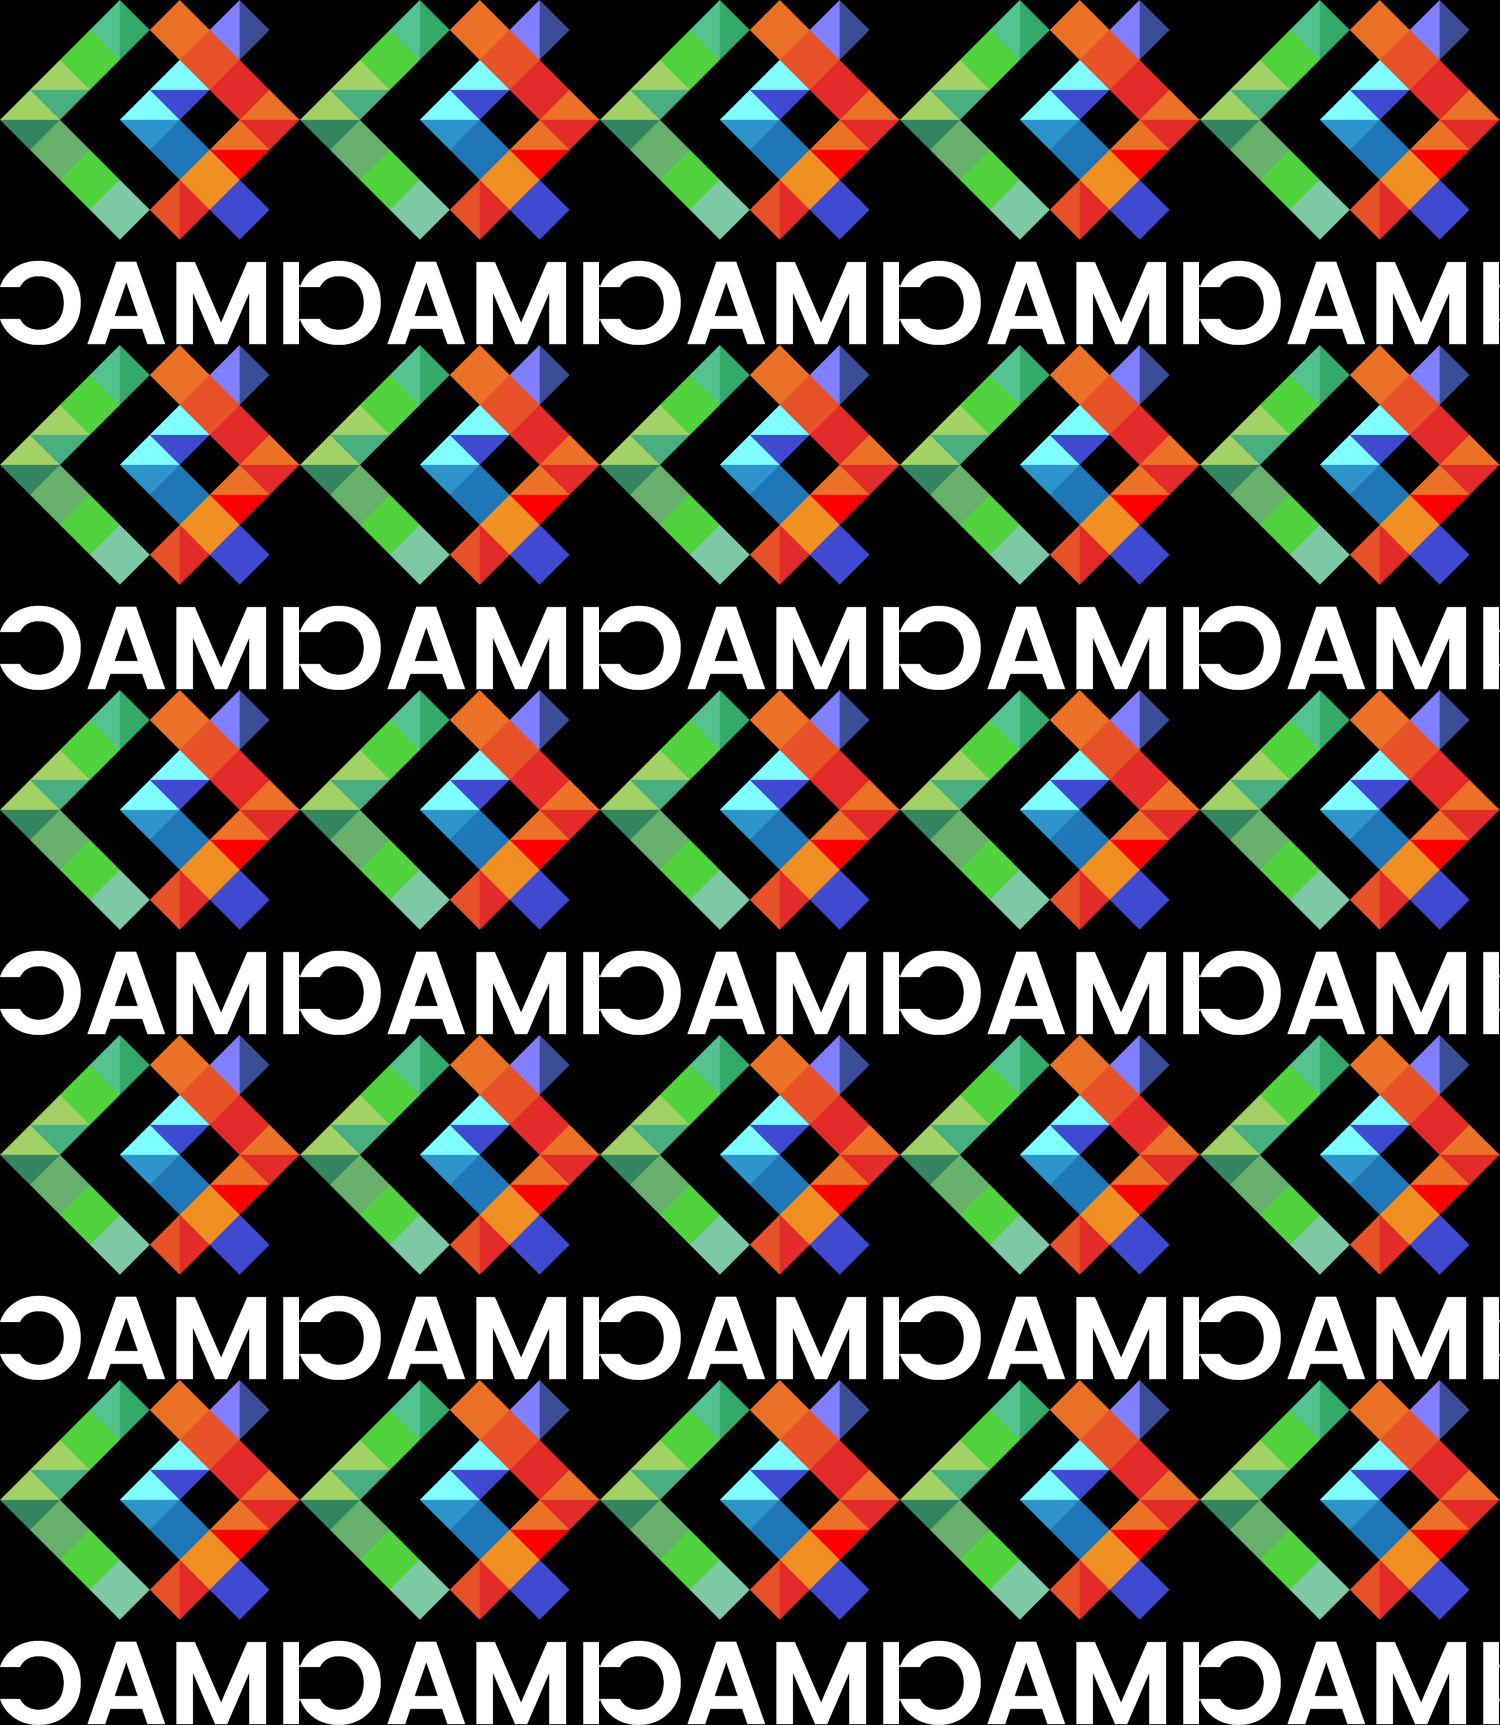
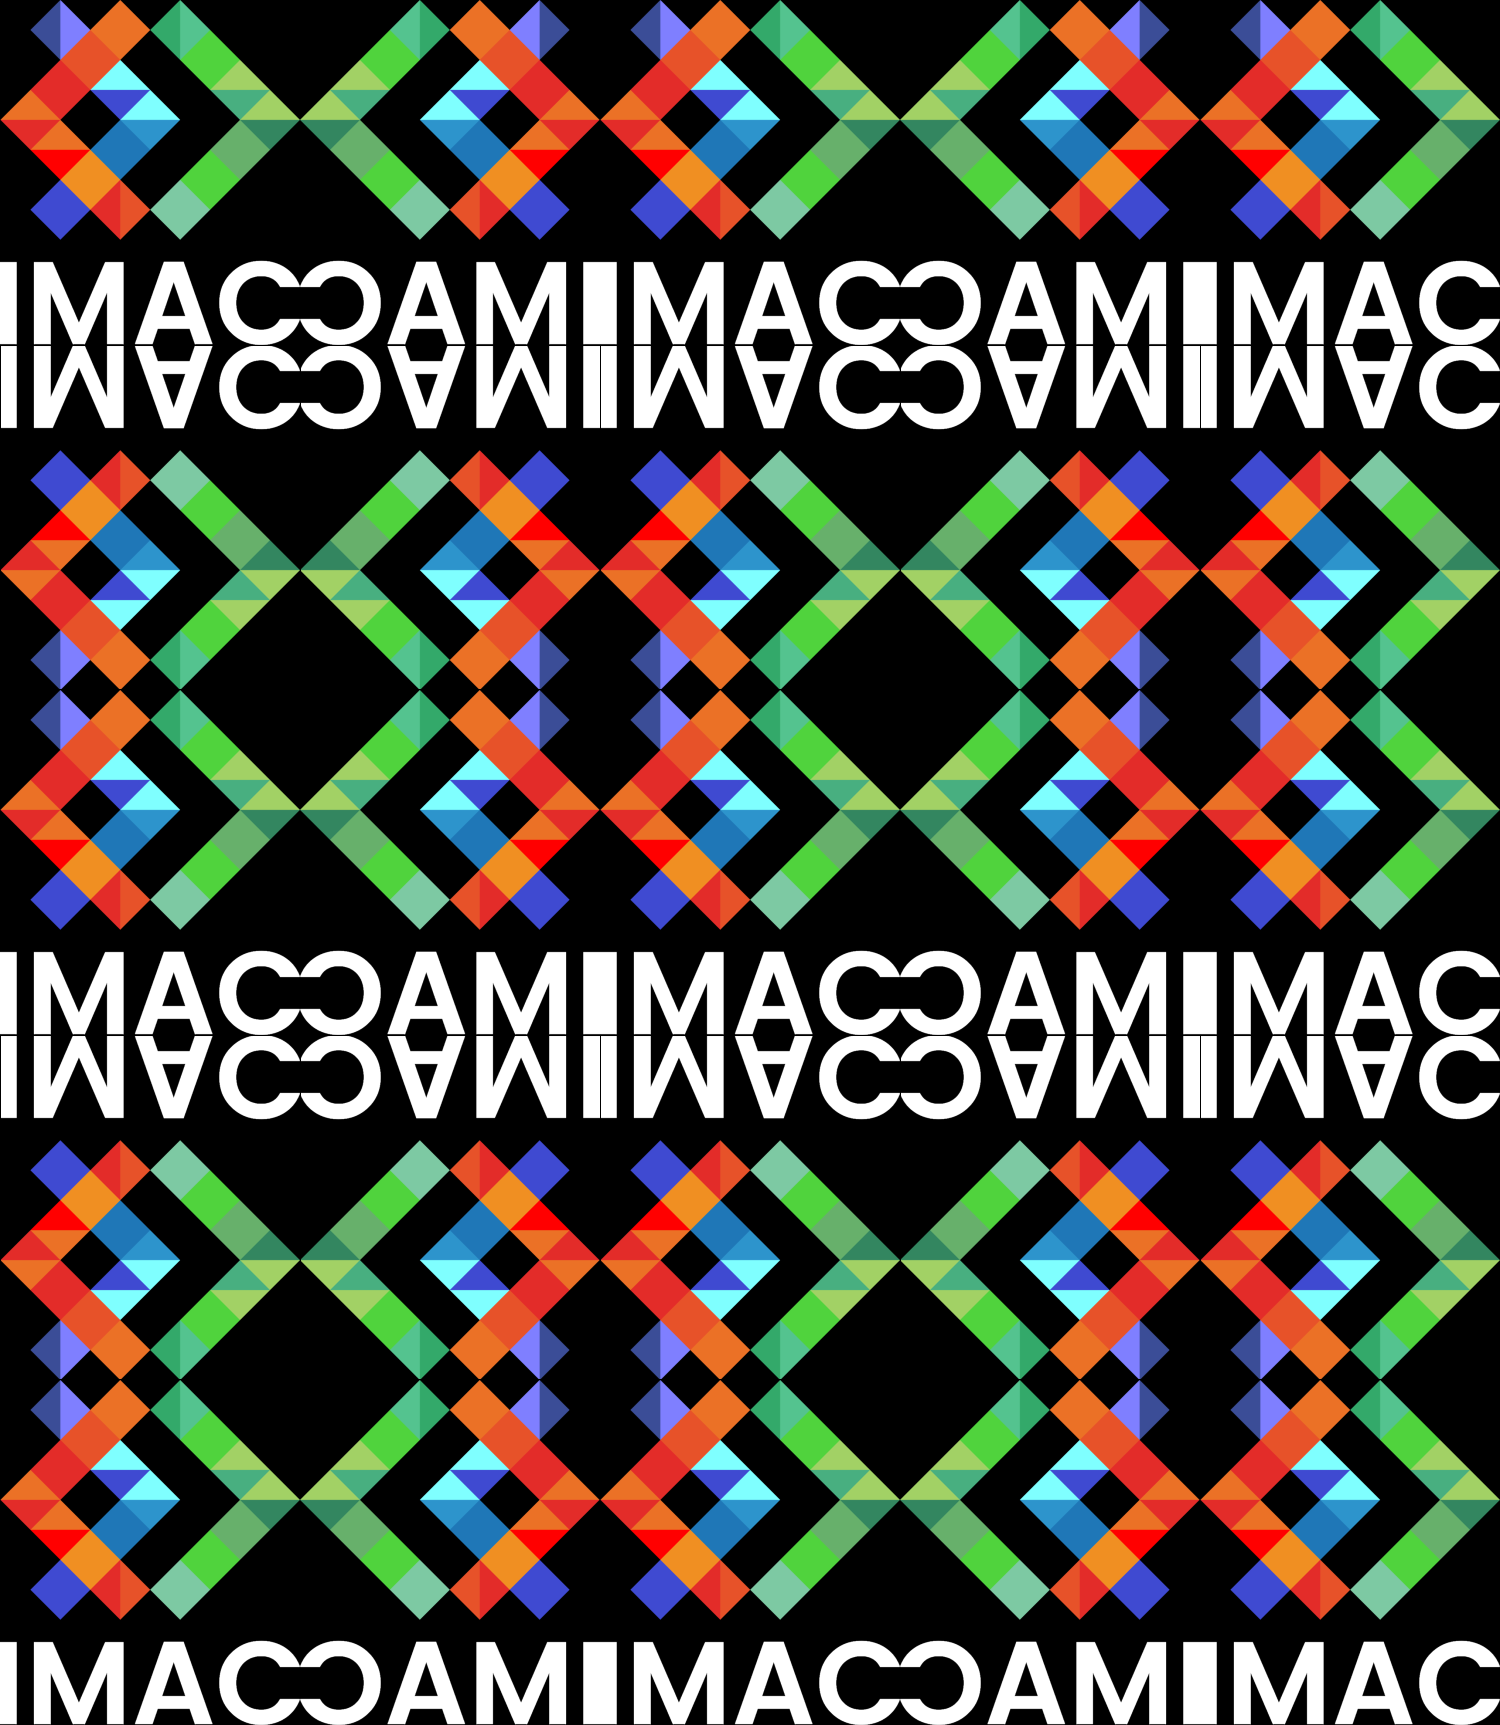
update mosaique miroir + rapport

diff --git a/src/main.cpp b/src/main.cpp
@@ -4,7 +4,7 @@
 #include <algorithm>
 #include <iostream>
 #include <complex>
-#include <cstdint>
+#include <glm/gtx/matrix_transform_2d.hpp>
 
 
 void keep_green_only(sil::Image& image)
@@ -59,15 +59,16 @@ void gradient(sil::Image& image)
 
 sil::Image mirror(sil::Image& image)
 {
-    sil::Image imageref = image;
-    for (int x {0}; x < image.width() - 1; x++)
+    sil::Image new_image = image;
+
+    for (int x {0}; x < image.width(); x++)
     {
         for (int y {0}; y < image.height(); y++)
         {
-            image.pixel(x, y) = imageref.pixel(image.width() - (x + 1), y);     
+            new_image.pixel(x, y) = image.pixel(image.width() - x - 1, y);     
         }
     }
-    return image;
+    return new_image;
 }
 
 void noise(sil::Image& image)
@@ -83,19 +84,15 @@ void noise(sil::Image& image)
     }  
 }
 
-sil::Image rotate_to_right(sil::Image& image)
+sil::Image rotate_to_right(const sil::Image& image)
 {
-    // la nouvelle image aura une width de 345 et une height de 300
     sil::Image new_image{image.height(), image.width()};
-    //                 = 300 - 1
+
     for (int x {0}; x < image.width() - 1; x++)
     {
-        //                 = 345 - 1
         for (int y {0}; y < image.height() - 1; y++)
         {
-            //                 = 300 - x
-            //new_image.pixel(y, new_image.height()-x) = image.pixel(x, y); 
-            new_image.pixel(y, new_image.height() - 1 - x) = image.pixel(x, y);     
+            new_image.pixel(image.height() - 1 - y, x) = image.pixel(x, y);     
         }
     } 
     return new_image;
@@ -269,11 +266,13 @@ sil::Image mosaique(sil::Image& image)
 
 sil::Image mosaique_miroir(sil::Image& image)
 {
-    // sil::Image imageref = image;
-    sil::Image image_inversee = mirror(image);
+    // les variantes de l'image
+    sil::Image horizontal = mirror(image);
+    sil::Image rot180 = rotate_to_right(rotate_to_right(image));
+    sil::Image vertical = rotate_to_right(rotate_to_right(horizontal));
+
     sil::Image canvas {5 * image.width(), 5 * image.height()};
   
-    // 2ÈME MÉTHODE
     for (int x {0}; x < canvas.width(); x++)
     {
         for (int y {0}; y < canvas.height(); y++)
@@ -286,13 +285,23 @@ sil::Image mosaique_miroir(sil::Image& image)
             int local_x = x % image.width();
             int local_y = y % image.height();
 
-            if (colonne % 2 == 0 && ligne % 2 == 0)
+            bool col_impaire {colonne % 2 == 1};
+            bool ligne_impaire {ligne % 2 == 1};
+
+            if (!col_impaire && !ligne_impaire)
             {
-                canvas.pixel(x,y) = image.pixel(local_x, local_y);  
-            } else 
+                canvas.pixel(x,y) = image.pixel(local_x, local_y);
+            } else if (col_impaire && !ligne_impaire)
             {
-                canvas.pixel(x,y) = image_inversee.pixel(local_x, local_y);  
-            }  
+                canvas.pixel(x,y) = horizontal.pixel(local_x, local_y);
+            } else if (!col_impaire && ligne_impaire)
+            {
+                canvas.pixel(x,y) = vertical.pixel(local_x, local_y);
+            }else 
+            {
+                canvas.pixel(x,y) = rot180.pixel(local_x, local_y);
+            }
+   
         } 
     };
     return canvas;
@@ -556,7 +565,7 @@ void dithering(sil::Image& image)
         { -0.3125,  0.1875, -0.4375,  0.0625 },
         {  0.4375, -0.0625,  0.3125, -0.1875 },
     };
-    
+
     for (int y {0}; y < image.height(); y++) 
     {
         for (int x {0}; x < image.width(); x++)
@@ -580,6 +589,43 @@ void dithering(sil::Image& image)
             image.pixel(x, y) = glm::vec3{result};
         }
     }
+}
+
+glm::vec2 rotated(glm::vec2 point, glm::vec2 center_of_rotation, float angle)
+    {
+        return glm::vec2{glm::rotate(glm::mat3{1.f}, angle) * glm::vec3{point - center_of_rotation, 0.f}} + center_of_rotation;
+    };
+
+void vortex(sil::Image& image)
+{
+    sil::Image imageref = image;
+
+    const glm::vec2 center {image.width() / 2.f, image.height() / 2.f};
+    const float strength {0.05f};
+
+    for (int y {0}; y < image.height(); y++)
+    {
+        for (int x {0}; x < image.width(); x++)
+        {
+            glm::vec2 p {static_cast<float>(x), static_cast<float>(y)};
+
+            float distance {glm::distance(p, center)};
+            float angle {distance * strength};
+
+            glm::vec2 src {rotated(p, center, angle)};
+
+            int sx {static_cast<int>(std::round(src.x))};
+            int sy {static_cast<int>(std::round(src.y))};
+
+            if (sx < 0 || sy < 0 || sx >= static_cast<int>(image.width()) || sy >= static_cast<int>(image.height()) )
+            {
+                image.pixel(x,y) = glm::vec3{0.f};
+            } else
+            {
+                image.pixel(x,y) = imageref.pixel(sx, sy);
+            }
+        }
+    }    
 }
 
 
@@ -628,8 +674,8 @@ int main()
     }
     {
         /* 8. ROTATE IMAGE BY 90 DEGREES */
-        // sil::Image image{"images/logo.png"};
-        // rotate_to_right(image).save("output/rotate_to_right.png"); // ça tourne vers la gauche ;(
+        sil::Image image{"images/logo.png"};
+        rotate_to_right(image).save("output/rotate_to_right.png"); // ça tourne vers la gauche ;(
     }
     {
         /* 9. RGB SPLIT */
@@ -682,9 +728,9 @@ int main()
         // mosaique(image).save("output/mosaique.png");
     }
     {
-        /* 16. MOSAIQUE MIROIR - PAS FINI */
-        // sil::Image image{"images/logo.png"};
-        // mosaique_miroir(image).save("output/mosaique_miroir.png");
+        /* 16. MOSAIQUE MIROIR */
+        sil::Image image{"images/logo.png"};
+        mosaique_miroir(image).save("output/mosaique_miroir.png");
     }
     {
         /* 17. GLITCH */
@@ -733,8 +779,14 @@ int main()
     }
     {
         /* 21. DITHERING */
-        sil::Image image{"images/photo.jpg"};
-        dithering(image);
-        image.save("output/dithering.png");
+        // sil::Image image{"images/photo.jpg"};
+        // dithering(image);
+        // image.save("output/dithering.png");
+    }
+     {
+        /* 22. VORTEX */
+        // sil::Image image{"images/logo.png"};
+        // vortex(image);
+        // image.save("output/vortex.png");
     }
 }
